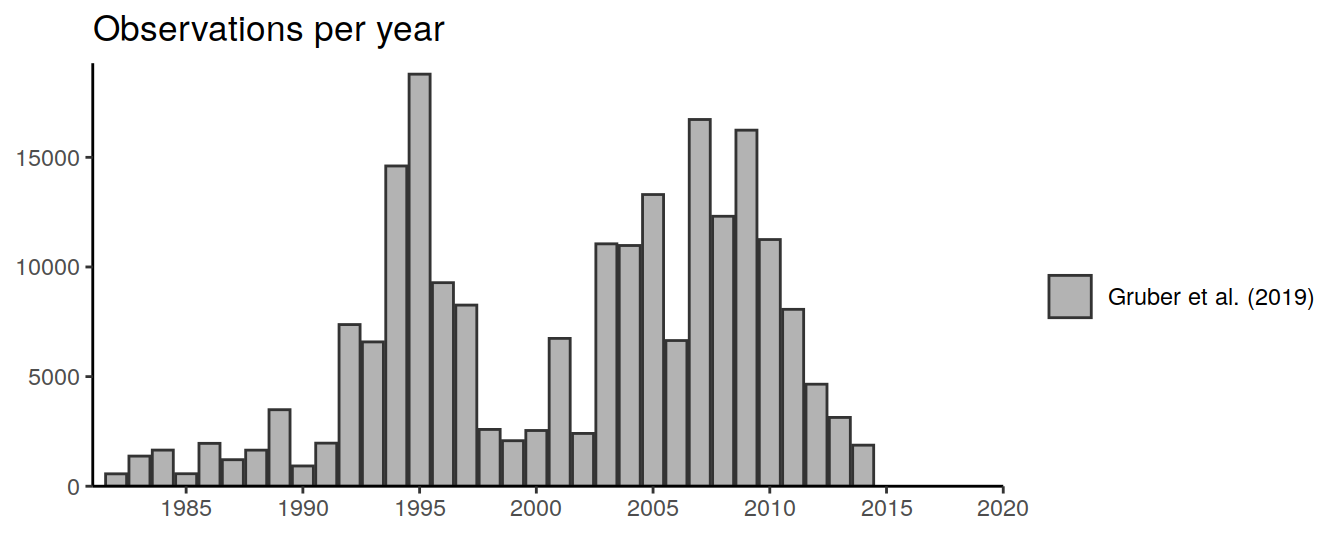
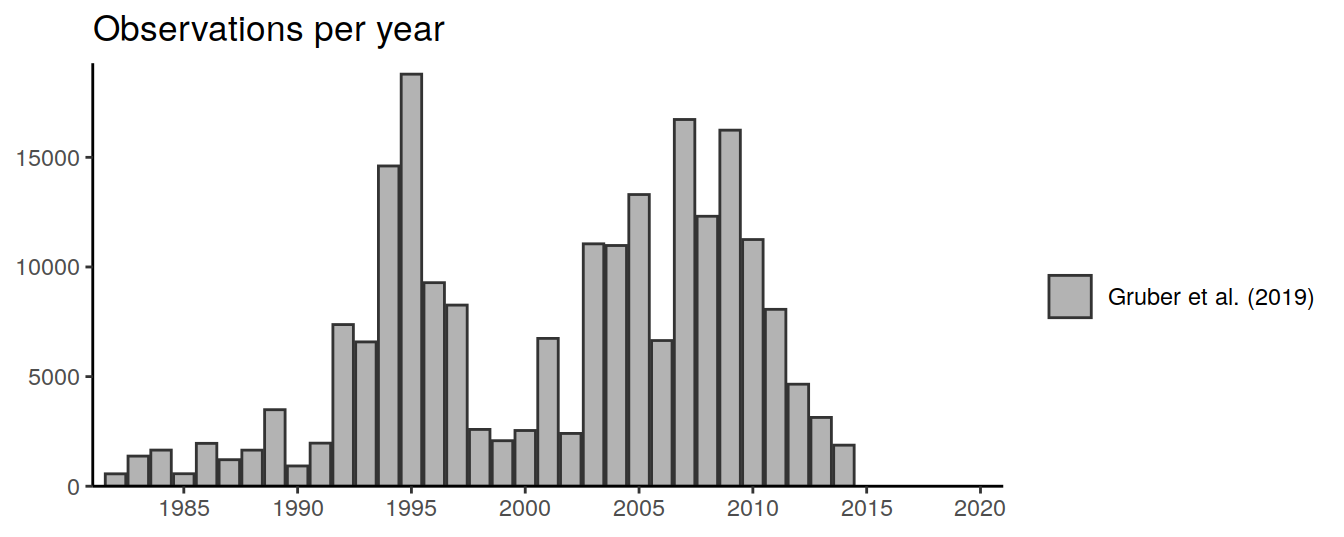
Build site.

Changed region(s): [[0.0938, 0.1192, 0.7812, 0.9832]]

diff --git a/docs/basics.html b/docs/basics.html
@@ -673,16 +673,16 @@ This reproducible <a href="https://rmarkdown.rstudio.com">R Markdown</a> analysi
 <div class="panel panel-default">
 <div class="panel-heading">
 <p class="panel-title">
-<a data-toggle="collapse" data-parent="#workflowr-checks" href="#strongRepositoryversionstrongahrefhttpsgithubcomjensdanielmuelleremlrobsanalysistree79a54fee5dedaf37204985896e5759bf7c225e8etargetblank79a54fea"> <span class="glyphicon glyphicon-ok text-success" aria-hidden="true"></span> <strong>Repository version:</strong> <a href="https://github.com/jens-daniel-mueller/emlr_obs_analysis/tree/79a54fee5dedaf37204985896e5759bf7c225e8e" target="_blank">79a54fe</a> </a>
+<a data-toggle="collapse" data-parent="#workflowr-checks" href="#strongRepositoryversionstrongahrefhttpsgithubcomjensdanielmuelleremlrobsanalysistree4874b3b3602f66aa2dfc0e136f31571b7a0176dftargetblank4874b3ba"> <span class="glyphicon glyphicon-ok text-success" aria-hidden="true"></span> <strong>Repository version:</strong> <a href="https://github.com/jens-daniel-mueller/emlr_obs_analysis/tree/4874b3b3602f66aa2dfc0e136f31571b7a0176df" target="_blank">4874b3b</a> </a>
 </p>
 </div>
[2 lines of base64/hex data omitted]
 <div class="panel-body">
 <p>
 Great! You are using Git for version control. Tracking code development and connecting the code version to the results is critical for reproducibility.
 </p>
 <p>
-The results in this page were generated with repository version <a href="https://github.com/jens-daniel-mueller/emlr_obs_analysis/tree/79a54fee5dedaf37204985896e5759bf7c225e8e" target="_blank">79a54fe</a>. See the <em>Past versions</em> tab to see a history of the changes made to the R Markdown and HTML files.
+The results in this page were generated with repository version <a href="https://github.com/jens-daniel-mueller/emlr_obs_analysis/tree/4874b3b3602f66aa2dfc0e136f31571b7a0176df" target="_blank">4874b3b</a>. See the <em>Past versions</em> tab to see a history of the changes made to the R Markdown and HTML files.
 </p>
 <p>
 Note that you need to be careful to ensure that all relevant files for the analysis have been committed to Git prior to generating the results (you can use <code>wflow_publish</code> or <code>wflow_git_commit</code>). workflowr only checks the R Markdown file, but you know if there are other scripts or data files that it depends on. Below is the status of the Git repository when the results were generated:
@@ -732,6 +732,40 @@ Message
 </tr>
 </thead>
 <tbody>
+<tr>
+<td>
+Rmd
+</td>
+<td>
+<a href="https://github.com/jens-daniel-mueller/emlr_obs_analysis/blob/4874b3b3602f66aa2dfc0e136f31571b7a0176df/analysis/basics.Rmd" target="_blank">4874b3b</a>
+</td>
+<td>
+jens-daniel-mueller
+</td>
+<td>
+2022-02-04
+</td>
+<td>
+new coaverage map
+</td>
+</tr>
+<tr>
+<td>
+html
+</td>
+<td>
+<a href="https://rawcdn.githack.com/jens-daniel-mueller/emlr_obs_analysis/d2191adf7ee8c190568a83d969cd508b68cd18ae/docs/basics.html" target="_blank">d2191ad</a>
+</td>
+<td>
+jens-daniel-mueller
+</td>
+<td>
+2022-02-04
+</td>
+<td>
+Build site.
+</td>
+</tr>
 <tr>
 <td>
 Rmd
@@ -1323,7 +1357,7 @@ GLODAP_preprocessed %&gt;%
   scale_fill_manual(values = c(&quot;grey70&quot;),
                     name = &quot;&quot;) +
   scale_x_continuous(breaks = seq(1900, 2100, 5),
-                     limits = c(1981, 2020)) +
+                     limits = c(1981, 2021)) +
   scale_y_continuous(limits = c(0, max(time_histo$n) + 500)) +
   coord_cartesian(expand = 0) +
   labs(title = &quot;Observations per year&quot;) +
@@ -1434,6 +1468,17 @@ Date
 <tbody>
 <tr>
 <td>
+<a href="https://github.com/jens-daniel-mueller/emlr_obs_analysis/blob/d2191adf7ee8c190568a83d969cd508b68cd18ae/docs/figure/basics.Rmd/time_series_post_Gruber_2019-2.png" target="_blank">d2191ad</a>
+</td>
+<td>
+jens-daniel-mueller
+</td>
+<td>
+2022-02-04
+</td>
+</tr>
+<tr>
+<td>
 <a href="https://github.com/jens-daniel-mueller/emlr_obs_analysis/blob/570e7388d8bac566e36e8dd897e720ee99b9b2c9/docs/figure/basics.Rmd/time_series_post_Gruber_2019-2.png" target="_blank">570e738</a>
 </td>
 <td>
@@ -1526,6 +1571,17 @@ Date
 <tbody>
 <tr>
 <td>
+<a href="https://github.com/jens-daniel-mueller/emlr_obs_analysis/blob/d2191adf7ee8c190568a83d969cd508b68cd18ae/docs/figure/basics.Rmd/time_series_per_basin-1.png" target="_blank">d2191ad</a>
+</td>
+<td>
+jens-daniel-mueller
+</td>
+<td>
+2022-02-04
+</td>
+</tr>
+<tr>
+<td>
 <a href="https://github.com/jens-daniel-mueller/emlr_obs_analysis/blob/18f801f3a0948ce778f28f3b7011570f59ed4c9b/docs/figure/basics.Rmd/time_series_per_basin-1.png" target="_blank">18f801f</a>
 </td>
 <td>
@@ -1582,6 +1638,43 @@ basin_maps &lt;-
 
 basin_maps</code></pre>
 <p><img src="figure/basics.Rmd/basin_maps-1.png" width="672" style="display: block; margin: auto;" /></p>
+<p>
+<button type="button" class="btn btn-default btn-xs btn-workflowr btn-workflowr-fig" data-toggle="collapse" data-target="#fig-basin_maps-1">
+Past versions of basin_maps-1.png
+</button>
+</p>
+<div id="fig-basin_maps-1" class="collapse">
+<div class="table-responsive">
+<table class="table table-condensed table-hover">
+<thead>
+<tr>
+<th>
+Version
+</th>
+<th>
+Author
+</th>
+<th>
+Date
+</th>
+</tr>
+</thead>
+<tbody>
+<tr>
+<td>
+<a href="https://github.com/jens-daniel-mueller/emlr_obs_analysis/blob/d2191adf7ee8c190568a83d969cd508b68cd18ae/docs/figure/basics.Rmd/basin_maps-1.png" target="_blank">d2191ad</a>
+</td>
+<td>
+jens-daniel-mueller
+</td>
+<td>
+2022-02-04
+</td>
+</tr>
+</tbody>
+</table>
+</div>
+</div>
 <pre class="r"><code>ggsave(plot = basin_maps,
        path = here::here(&quot;output/publication&quot;),
        filename = &quot;FigS_basin_masks.png&quot;,
@@ -1722,6 +1815,17 @@ Date
 </tr>
 </thead>
 <tbody>
+<tr>
+<td>
+<a href="https://github.com/jens-daniel-mueller/emlr_obs_analysis/blob/d2191adf7ee8c190568a83d969cd508b68cd18ae/docs/figure/basics.Rmd/coverage_maps-1.png" target="_blank">d2191ad</a>
+</td>
+<td>
+jens-daniel-mueller
+</td>
+<td>
+2022-02-04
+</td>
+</tr>
 <tr>
 <td>
 <a href="https://github.com/jens-daniel-mueller/emlr_obs_analysis/blob/e1743e74cc2cd46e5d212c25423130bbd61d222a/docs/figure/basics.Rmd/coverage_maps-1.png" target="_blank">e1743e7</a>
